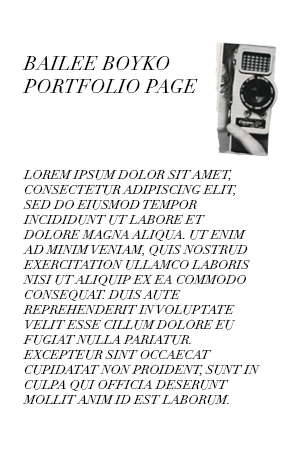
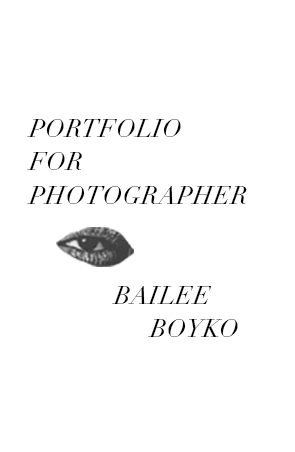
changed description images and made responsive for mobile

diff --git a/css/style.css b/css/style.css
@@ -383,3 +383,59 @@ div.row_3 {
   left: 4px;
 }
 }
+
+
+/* ----------- iPhone 6 ----------- */
+
+/* Portrait and Landscape */
+@media only screen 
+  and (min-device-width: 375px) 
+  and (max-device-width: 667px) 
+  and (-webkit-min-device-pixel-ratio: 2) { 
+
+#wrapper {
+  width: 45%;
+}
+
+div.row_2 {
+  left: 22px;
+  top: 154px;
+}
+
+div.row_3 {
+  left: 22px;
+  top: 8px;
+  padding-bottom: 80px;
+}
+
+
+}
+
+
+/* ----------- iPhone 5 and 5S ----------- */
+
+/* Portrait and Landscape */
+@media only screen 
+  and (min-device-width: 320px) 
+  and (max-device-width: 568px)
+  and (-webkit-min-device-pixel-ratio: 2) {
+
+#wrapper {
+  width: 45%;
+}
+
+div.row_2 {
+  left: 22px;
+  top: 154px;
+}
+
+div.row_3 {
+  left: 22px;
+  top: 8px;
+  padding-bottom: 80px;
+}
+
+
+}
+
+
